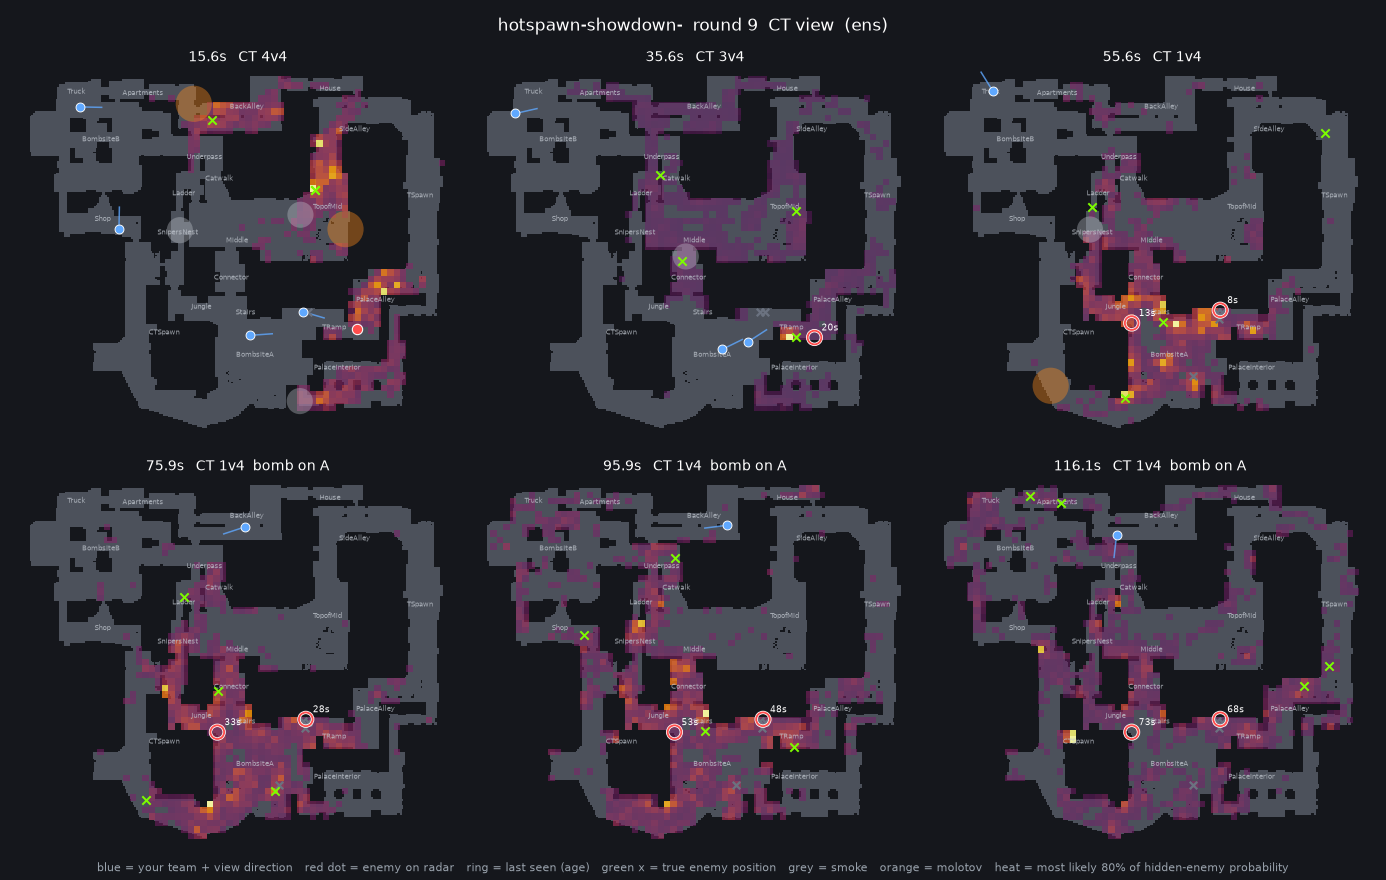
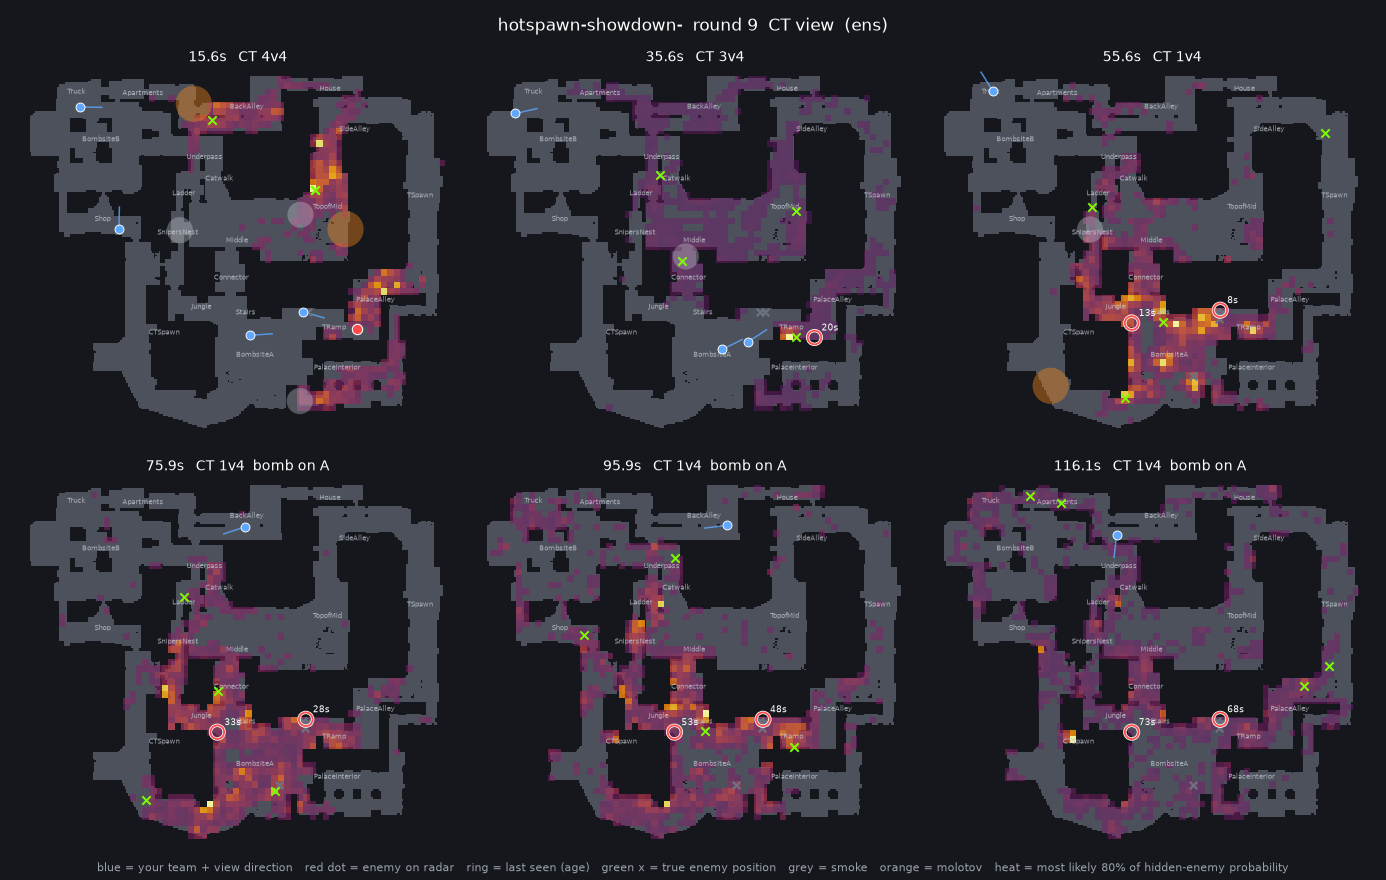
README: refresh all results from one evaluation of the final code and data
- Every number in Results now comes from single runs on today's data (after
  the smoke/fire timing and flash fixes) and models, instead of runs made at
  different stages: the pooled test table, each enhancement's paired effect,
  calibration before/after, time since seen, clutches, never-seen enemies
  and team-level counts; runs saved under outputs/final/
- The training-data comparison and the FACEIT development set are rerun
  with the current code (HLTV-only and FACEIT-only models rebuilt and
  calibrated the same way)
- The data fixes alone changed the original ensemble by almost nothing
  (callout log-loss +0.001, -0.006 to +0.007)
- Example render redrawn with today's models; small factual fixes (data
  size, spotting-model pairs, sound is not used by choice); .gitignore
  duplicate removed

diff --git a/README.md b/README.md
@@ -87,7 +87,7 @@ positions fall on cells the FACEIT data had already mapped.
   coordinated than in HLTV demos.
 - They ship with 35 / 5 / 6 train / val / test matches.
 - `python -m cspredict.fetch_xego` downloads them with the split file. The raw demos are 17 GB;
-  the parsed tables in `data/parsed/` are 82 MB.
+  the parsed tables in `data/parsed/` are 72 MB.
 
 ## How it works
 
@@ -95,7 +95,7 @@ positions fall on cells the FACEIT data had already mapped.
 |---|---|---|
 | What the team knew | `infostate.py` | Rebuilds the radar from the demo's per-player `spotted_by` lists. Every 0.25 s it records teammates' positions and view angles, which enemies are on the radar, active smokes, burning molotovs, flashed teammates, kill-feed entries and the bomb site. A smoke counts as blocking from 1 s after it bursts until 1.5 s before it expires: that is when spotting through smokes stops and starts again in the training demos. Fires are assumed known to both teams (the thrower saw where it landed; the other team sees and hears it). True enemy positions are kept for scoring only. |
 | Map grid | `grid.py` | awpy's map downloads were returning 403, so the walkable area is learned from where players stand: about 2,000 cells of 64 units (1,999 with the pooled training data), two floors where levels overlap (underpass/catwalk), and Mirage's 23 callouts. |
-| Spotting model | `visibility.py` | P(an enemy standing here would show up on our radar), given where each teammate stands and looks. Built from ray casts through the walked area plus "carved" see-through space (every real spotting proves its sight line was clear), then a logistic model calibrated on 8.8M observer–enemy pairs. Held-out AUC 0.99. This supplies the negative evidence: my teammate is looking at A ramp and sees nobody, so the enemy is probably not on ramp. |
+| Spotting model | `visibility.py` | P(an enemy standing here would show up on our radar), given where each teammate stands and looks. Built from ray casts through the walked area plus "carved" see-through space (every real spotting proves its sight line was clear), then a logistic model fitted on about 27 million observer–enemy pairs (9 million with the FACEIT data alone). Held-out AUC 0.99. This supplies the negative evidence: my teammate is looking at A ramp and sees nobody, so the enemy is probably not on ramp. |
 | Grid motion | `motion.py` | Markov model over cells. Transitions depend on side, bomb phase (not planted / A / B) and time since the enemy was last spotted, because a player who was just seen usually holds or falls back instead of running on. |
 | Particle motion | `particles.py` | Each hypothesis follows a real recorded trajectory from a similar situation: same side, nearby cell, heading, round time, bomb phase, time since spotted, and (softly) the team's buy. This captures fast rotations that the grid model smears out. Matching the weapon seen in the enemy's hands is implemented but off (see Results). |
 | Fires | `fires.py` | Fitted on the training demos: players stand within 120 units of a burning molotov at 5–15% of their usual density, and at half density 180 units out (the fire radius). A second profile, fitted by maximum likelihood on 66,000 moves next to fires, scales how likely a player is to step into (or stay in) a cell at each distance, per 0.25 s. |
@@ -113,46 +113,45 @@ and 7.58 cell log-loss.
 ### Pro matches: 16 held-out HLTV maps, 102,486 samples
 
 The models were trained on 47 HLTV + 35 FACEIT maps (`build --sources hltv xego`). Every setting was
-chosen on the 8 validation maps, and each test number below was measured once afterwards. The
-intervals are 95% bootstrap intervals that resample whole rounds. Differences between models are
-paired: both are scored on the same moments, so the noise they share cancels and a difference can be
-clear even when the two separate intervals overlap.
+chosen on the 8 validation maps first. All numbers in this section then come from a single
+evaluation of the final code and data (`outputs/final/test_pooled`). The intervals are 95%
+bootstrap intervals that resample whole rounds. Differences between models are paired: both are
+scored on the same moments, so the noise they share cancels and a difference can be clear even when
+the two separate intervals overlap.
 
 | Model | Callout top-1 | Callout top-3 | Callout log-loss | Cell log-loss |
 |---|---|---|---|---|
-| **ens** (particles + grid + prior, fires, team, calibrated) | **0.481** (0.456–0.507) | **0.728** | **1.666** (1.581–1.749) | **5.828** |
-| ens before the four enhancements below (re-run) | 0.478 (0.453–0.504) | 0.726 | 1.688 (1.599–1.775) | 5.856 |
-| pf (particles) | 0.471 | 0.719 | 1.876 | 6.948 |
-| hmm (grid motion) | 0.466 | 0.703 | 2.596 | 7.066 |
-| diffuse (random walk, no learning) | 0.443 | 0.690 | 3.028 | 7.856 |
+| **ens** (particles + grid + prior, fires, team, calibrated) | **0.481** (0.456–0.508) | **0.727** | **1.665** (1.581–1.747) | **5.822** |
+| ens before the four enhancements below | 0.479 (0.454–0.505) | 0.726 | 1.689 (1.600–1.777) | 5.849 |
+| pf (particles) | 0.472 | 0.718 | 1.875 | 6.917 |
+| hmm (grid motion) | 0.466 | 0.704 | 2.591 | 7.060 |
+| diffuse (random walk, no learning) | 0.444 | 0.689 | 3.023 | 7.850 |
 | last_seen ("they're where I last saw them") | 0.422 | 0.584 | 7.196 | 16.671 |
 | prior (where that side usually is at this time) | 0.213 | 0.451 | 2.607 | 7.257 |
 
-Against the ensemble before these enhancements, `ens` improves callout log-loss by 0.023 (0.010 to
-0.035) and cell log-loss by 0.028 (0.012 to 0.043). Its top-1 gain, +0.003 (−0.001 to +0.008), is
-within noise.
+Against the ensemble before these enhancements, `ens` improves callout log-loss by 0.024 (0.012 to
+0.036) and cell log-loss by 0.027 (0.015 to 0.040). Its top-1 gain, +0.002 (−0.001 to +0.005), is
+within noise. The data fixes made along the way (smoke and fire end times, rebuilt flashes) changed
+the old ensemble by almost nothing: it scored 0.478 / 1.688 / 5.856 on the demos as first parsed.
 
-What each enhancement did, as the paired difference to the step before it (test):
+What each enhancement did, as the paired difference to the step before it:
 
 | Step | Callout top-1 | Callout log-loss | Cell log-loss | Where it shows |
 |---|---|---|---|---|
-| 1. Weapon seen at the last sighting (tested, left off) | −0.003 (−0.007, +0.001) | +0.003 (−0.004, +0.011) | −0.016 (−0.032, +0.001) | Nowhere beyond noise: the same model with another random seed moves the metrics as much |
-| 2. Molotovs | +0.002 (+0.000, +0.004) | −0.001 (−0.002, +0.000) | −0.004 (−0.007, −0.002) | While a fire burns (19% of samples): top-1 +0.005 (+0.001, +0.010), cell log-loss −0.017 (−0.026, −0.006) |
-| 3. Team coordination | +0.001 (−0.002, +0.005) | −0.002 (−0.007, +0.003) | −0.002 (−0.007, +0.003) | Enemies not seen yet after a teammate has been: top-1 +0.016 (+0.011, +0.022), log-loss −0.031 (−0.040, −0.022); team-level count error −0.020 (−0.033, −0.006) |
-| 4. Calibration | 0 (never reorders) | −0.022 (−0.033, −0.011) | −0.022 (−0.033, −0.011) | The percentages below |
-
-Step 2 is measured on corrected smoke and fire end times. That correction on its own was neutral
-(callout log-loss +0.002, −0.004 to +0.008).
+| 1. Weapon seen at the last sighting (tested, left off) | −0.001 (−0.005, +0.003) | −0.006 (−0.014, +0.002) | −0.012 (−0.029, +0.007) | Nowhere beyond noise: the same model with another random seed moves by up to ±0.020 |
+| 2. Molotovs | +0.001 (−0.000, +0.002) | −0.001 (−0.002, +0.000) | −0.004 (−0.007, −0.002) | While a fire burns (19% of samples): top-1 +0.004 (−0.000, +0.009), cell log-loss −0.017 (−0.027, −0.006) |
+| 3. Team coordination | +0.001 (−0.002, +0.005) | −0.002 (−0.007, +0.003) | −0.002 (−0.007, +0.003) | Enemies not seen yet after a teammate has been: top-1 +0.016 (+0.011, +0.022), log-loss −0.031 (−0.040, −0.022); team-level count error −0.021 (−0.034, −0.007) |
+| 4. Calibration | 0 (never reorders) | −0.021 (−0.032, −0.010) | −0.021 (−0.032, −0.010) | The percentages below |
 
 **Honest percentages.** When `ens` says a callout holds the enemy with a given probability, how
-often is the enemy really there (every callout probability, test)?
+often is the enemy really there (every callout probability)?
 
 | Says | 20–30% | 30–40% | 40–50% | 50–60% | 60–70% | 70–80% | 80–90% | 90%+ |
 |---|---|---|---|---|---|---|---|---|
-| before calibration | 21% | 32% | 41% | 50% | 62% | 74% | 89% | 99% |
-| **after** | **23%** | **34%** | **44%** | **54%** | **66%** | **75%** | **86%** | **97%** |
+| before calibration | 21% | 32% | 40% | 50% | 62% | 75% | 89% | 99% |
+| **after** | **24%** | **33%** | **44%** | **53%** | **67%** | **75%** | **85%** | **97%** |
 
-The weighted gap between "says" and "is there" fell from 0.0039 to 0.0011. Before, the top bin
+The weighted gap between "says" and "is there" fell from 0.0040 to 0.0012. Before, the top bin
 averaged a claim of 92% and was right 99% of the time: the 10% prior in the mixture capped how sure
 the model could ever be. The fix depends on how long ago the enemy was seen. Within 5 s of a
 sighting the raw filters are too unsure and get sharpened; after 20 s they are too sure (on
@@ -163,45 +162,53 @@ enhancements / last_seen / prior_neg, the prior with negative information):
 
 | | 0–2 s | 2–5 s | 5–10 s | 10–20 s | 20–40 s | 40 s+ |
 |---|---|---|---|---|---|---|
-| top-1 | 0.89 / 0.89 / 0.88 / 0.20 | 0.72 / 0.71 / 0.68 / 0.20 | 0.55 / 0.54 / 0.50 / 0.21 | 0.42 / 0.42 / 0.37 / 0.25 | 0.30 / 0.30 / 0.23 / 0.20 | 0.25 / 0.25 / 0.15 / 0.21 |
-| log-loss | 0.31 / 0.37 / 1.82 / 2.57 | 0.81 / 0.83 / 4.59 / 2.58 | 1.34 / 1.35 / 6.72 / 2.55 | 1.84 / 1.85 / 7.96 / 2.53 | 2.31 / 2.35 / 9.30 / 2.66 | 2.53 / 2.55 / 9.67 / 2.77 |
+| top-1 | 0.89 / 0.89 / 0.88 / 0.20 | 0.72 / 0.72 / 0.68 / 0.20 | 0.55 / 0.54 / 0.50 / 0.21 | 0.42 / 0.43 / 0.37 / 0.25 | 0.30 / 0.30 / 0.23 / 0.20 | 0.25 / 0.25 / 0.15 / 0.21 |
+| log-loss | 0.31 / 0.37 / 1.82 / 2.57 | 0.81 / 0.83 / 4.59 / 2.58 | 1.34 / 1.36 / 6.72 / 2.55 | 1.85 / 1.85 / 7.96 / 2.53 | 2.31 / 2.35 / 9.30 / 2.66 | 2.52 / 2.53 / 9.67 / 2.77 |
 
 Clutches with one friendly player left (callout top-1, ens / ens before / last_seen / prior_neg):
 
 | 1v1 | 1v2 | 1v3 | 1v4 | 1v5 |
 |---|---|---|---|---|
-| 0.60 / 0.60 / 0.43 / 0.36 | 0.51 / 0.52 / 0.42 / 0.35 | 0.49 / 0.50 / 0.38 / 0.31 | 0.40 / 0.38 / 0.34 / 0.16 | 0.41 / 0.39 / 0.39 / 0.13 |
+| 0.60 / 0.59 / 0.43 / 0.36 | 0.51 / 0.52 / 0.42 / 0.35 | 0.48 / 0.49 / 0.38 / 0.30 | 0.40 / 0.39 / 0.34 / 0.16 | 0.41 / 0.41 / 0.39 / 0.13 |
 
-Against a clutcher facing four or five, the new model is better (top-1 +0.012 and +0.019, log-loss
-−0.040 and −0.038). In 1v2 and 1v3 its top-1 is slightly lower (−0.008 and −0.015). These slices hold
-only 44 to 98 rounds each, so treat them as a mixed picture rather than a finding.
+Against a clutcher facing four or five, the new model's log-loss is clearly better (−0.041 and
+−0.038). Its top-1 changes, from −0.010 in 1v3 to +0.013 in 1v4, are all within noise. Each slice
+holds only 44 to 98 rounds.
 
 **Enemies nobody has seen yet, and the team as a whole.** 246,000 test moments have an enemy who has
-not been on the radar yet while a teammate of theirs has. Their callout top-1 is 0.186 (0.170 before
-the team model; the plain prior gets 0.191) and callout log-loss 2.585 (2.616; prior 2.600). At the
-team level, the expected number of hidden enemies per callout (the sum of their probabilities)
-misses the actual count by a squared error of 2.92 per moment, against 2.94 before and 3.26 for the
+not been on the radar yet while a teammate of theirs has. Their callout top-1 is 0.191 (0.175 before
+the team model; the plain prior also gets 0.191) and callout log-loss 2.576 (2.607; prior 2.600). At
+the team level, the expected number of hidden enemies per callout (the sum of their probabilities)
+misses the actual count by a squared error of 2.91 per moment, against 2.93 before and 3.26 for the
 prior. It still underestimates stacks: where it expects 2–3 enemies in one callout there are 2.5 on
 average.
 
-Which training data works best on the same 16 pro test maps (the ensemble before these enhancements):
+Which training data works best on the same 16 pro test maps (`ens` before calibration, so that
+all three are compared the same way):
 
 | Trained on | Callout top-1 | Callout log-loss | Cell log-loss |
 |---|---|---|---|
-| FACEIT only (35 maps) | 0.460 | 1.77 | 6.18 |
-| HLTV only (47 maps) | 0.466 | 1.73 | 5.95 |
-| **Both (82 maps)** | **0.478** | **1.69** | **5.86** |
+| FACEIT only (35 maps) | 0.463 | 1.767 | 6.163 |
+| HLTV only (47 maps) | 0.470 | 1.723 | 5.939 |
+| **Both (82 maps)** | **0.481** | **1.686** | **5.843** |
 
-### FACEIT development set: 6 held-out matches, 48,876 samples (FACEIT-only models, ensemble before these enhancements)
+Pooling beats the pro maps alone by top-1 +0.011 (0.001 to 0.021) and callout log-loss −0.037
+(−0.057 to −0.018).
+
+### FACEIT development set: 6 held-out matches, 48,876 samples (FACEIT-only models)
+
+Calibrated on the 5 FACEIT validation matches.
 
 | Model | Callout top-1 | Callout log-loss | Cell log-loss |
 |---|---|---|---|
-| **ens** | **0.461** | **1.78** | **6.10** |
-| last_seen | 0.378 | 7.83 | 16.77 |
-| prior | 0.219 | 2.60 | 7.59 |
+| **ens** | **0.463** | **1.724** | **6.037** |
+| ens before the four enhancements | 0.459 | 1.786 | 6.104 |
+| last_seen | 0.378 | 7.834 | 16.770 |
+| prior | 0.219 | 2.603 | 7.586 |
 
+Here the enhancements improve callout log-loss by 0.062 (0.042 to 0.082), more than on pro matches.
 Pro play is more predictable than FACEIT pugs. "Last seen" alone does better on pro matches (42% vs
-38%), because pros hold positions more, and the model's lead is largest in pro clutches (1v1: 59%
+38%), because pros hold positions more, and the model's lead is largest in pro clutches (1v1: 60%
 vs 25% on FACEIT).
 
 What mattered, from validation ablations:
@@ -282,10 +289,10 @@ about $0.25 per 3,000 moments, and answers are cached in `outputs/typesafe/`.
 ## Known limitations and next steps
 
 - **More pro data.** 71 pro maps is still small, and teams recur across the train/test split.
-  Team-specific tendencies and the switched-off 1vX and player matching are worth re-testing as the
-  set grows.
-- **Sound.** Footsteps and gunshots aren't used yet. Gunfire in particular is heard map-wide in
-  late-round fights and is probably the biggest remaining gain. Footsteps are already parsed.
+  Team-specific tendencies and the switched-off 1vX, player and weapon matching are worth re-testing
+  as the set grows.
+- **Sound** (footsteps, gunfire) is not used, by choice. Gunfire in particular is heard map-wide in
+  late-round fights, so it is probably the largest source of information left out.
 - **Identity.** Enemies are assumed identifiable when they appear on the radar.
 - **Coordination** is a correction on top of independent per-enemy filters. Recorded team snapshots
   reshape each enemy's callout probabilities, but the filters' motion stays independent, and the
